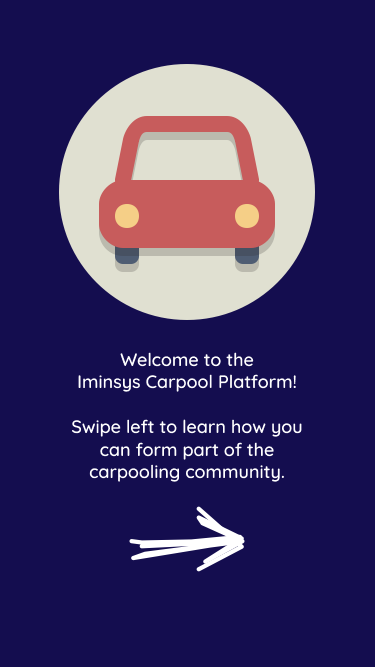
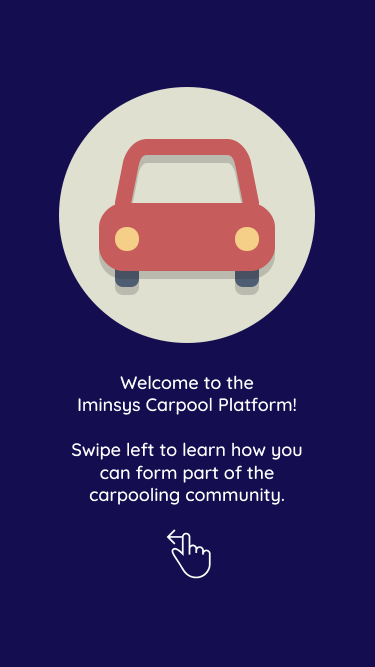
Progress on Introductory Carousel

Changed region(s): [[0.1467, 0.09, 0.8507, 0.8696]]

diff --git a/client/src/js/containers/IntroPage.js b/client/src/js/containers/IntroPage.js
@@ -2,8 +2,9 @@ import React from "react";
 import Slider from "react-slick";
 
 import slide_1  from "../../css/images/Intro_0.png";
-import slide_2  from "../../css/images/Intro_1_0.png";
-import slide_3  from "../../css/images/Intro_1_1.png";
+import slide_2  from "../../css/images/Intro_1.png";
+import slide_3  from "../../css/images/Intro_2.png";
+import slide_4  from "../../css/images/Intro_3.png";
 
 class IntroPage extends React.Component {
     render() {
@@ -19,9 +20,18 @@ class IntroPage extends React.Component {
             <div className="bg-purple vertical-center">
                 <div className="container-fluid pad-0">
                     <Slider {...settings}>
-                        <img className="img-fluid d-block mx-auto" src={slide_1} alt="slideOne"/>
-                        <img className="img-fluid d-block mx-auto" src={slide_2} alt="slideTwo"/>
-                        <img className="img-fluid d-block mx-auto" src={slide_3} alt="slideThree"/>
+                        <div>
+                            <img className="img-fluid d-block mx-auto" src={slide_1} alt="slideOne"/>
+                        </div>
+                        <div>
+                            <img className="img-fluid d-block mx-auto" src={slide_2} alt="slideTwo"/>
+                        </div>
+                        <div>
+                            <img className="img-fluid d-block mx-auto" src={slide_3} alt="slideThree"/>
+                        </div>
+                        <div>
+                            <img className="img-fluid d-block mx-auto" src={slide_4} alt="slideFour"/>
+                        </div>
                     </Slider> 
                 </div>
             </div>

diff --git a/client/src/js/components/route/UserMatch.js b/client/src/js/components/route/UserMatch.js
@@ -177,21 +177,12 @@ const hide = {
                                 </div>                                
                             </div>
                             <div className="row">
-                                <div className="col-12">
-                                    <h6 className="txt-center mbottom-0">
-                                        Carpool Name
-                                    </h6>
-                                </div>
-                            </div>
-                            <div className="row justify-content-center">
-                                <div className="col-6"> 
-                                    <input 
-                                        className="txt-center mbottom-0" 
-                                        type="text" 
-                                        onChange={this.handleCarpoolNameChange}
-                                        placeholder={this.carpoolName}
-                                    />
-                                </div>
+                                <input 
+                                    type="text" 
+                                    onChange={this.handleCarpoolNameChange}
+                                    className="form-control mx-auto width-15rem brad-2rem mbottom-1rem txt-purple settingInput"
+                                    placeholder="Carpool Name"
+                                />
                             </div>
                             <div className="row">
                                 <button 
